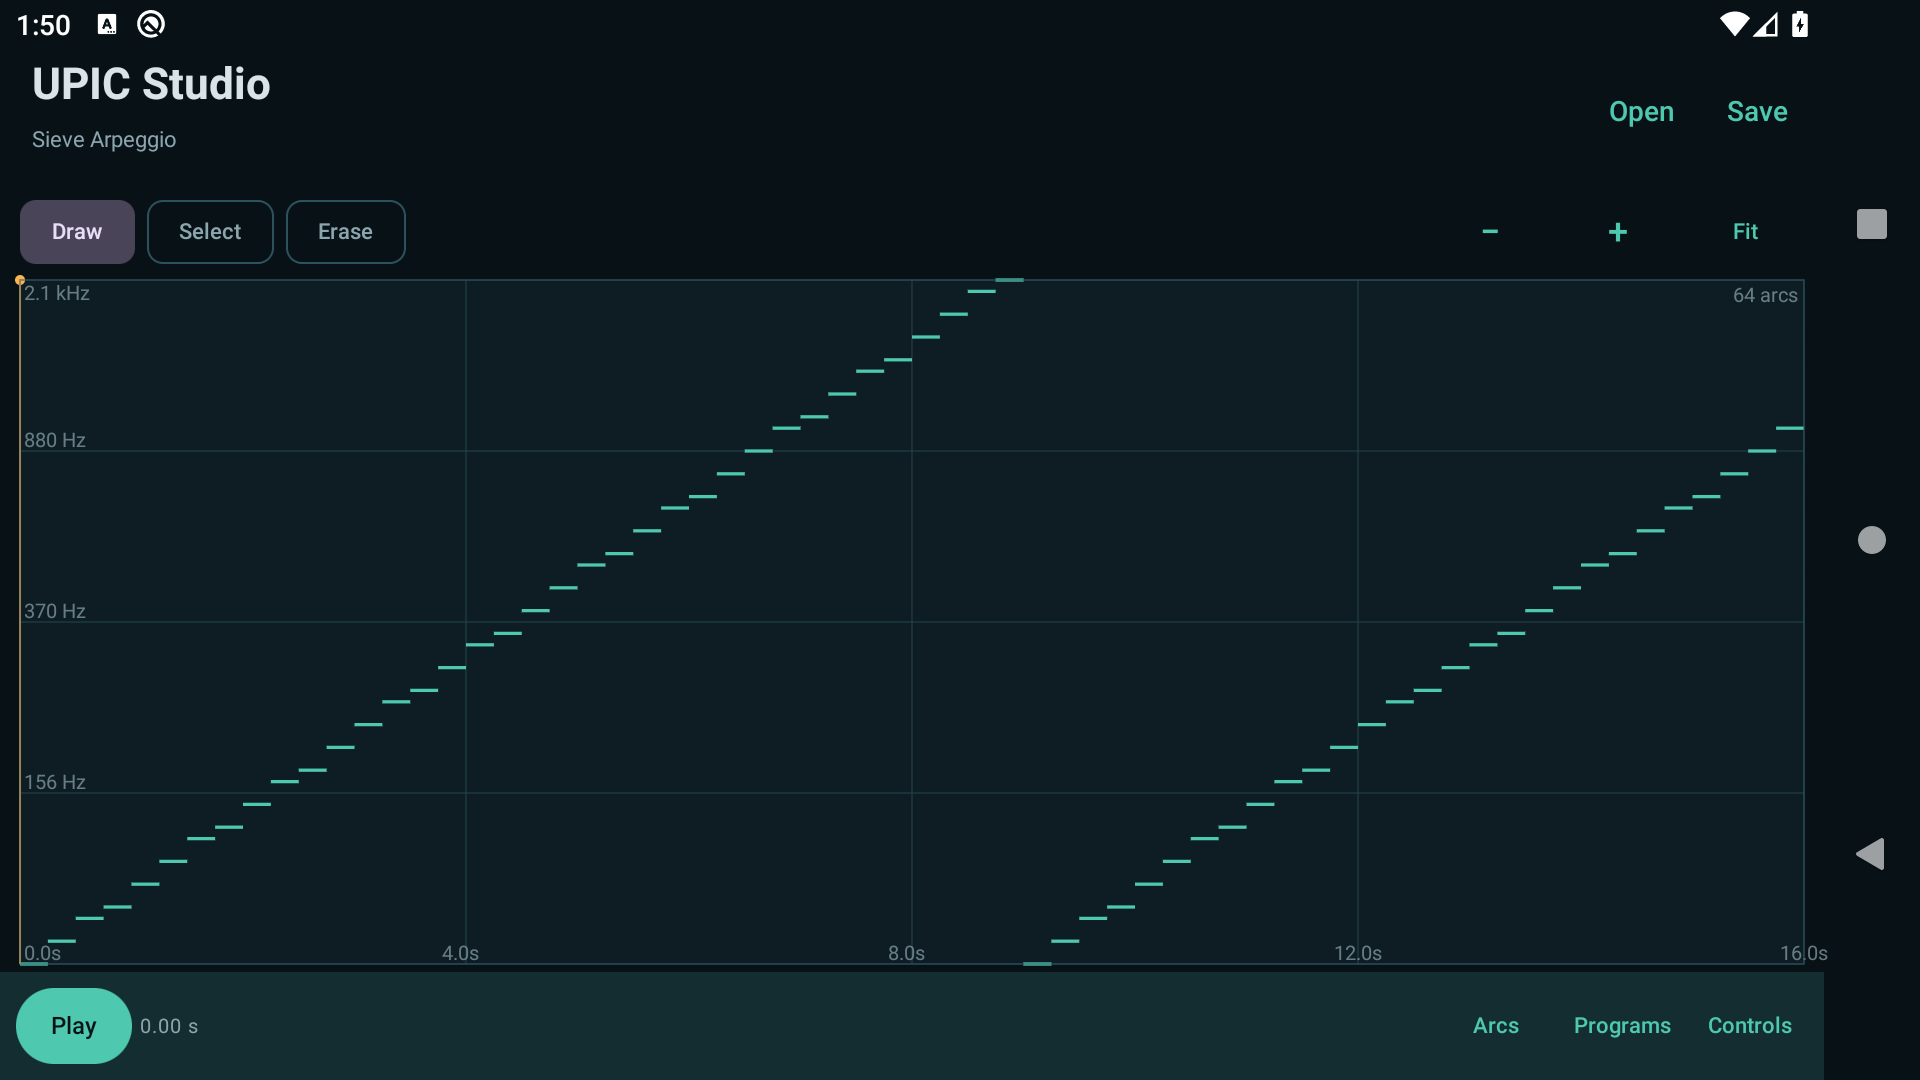
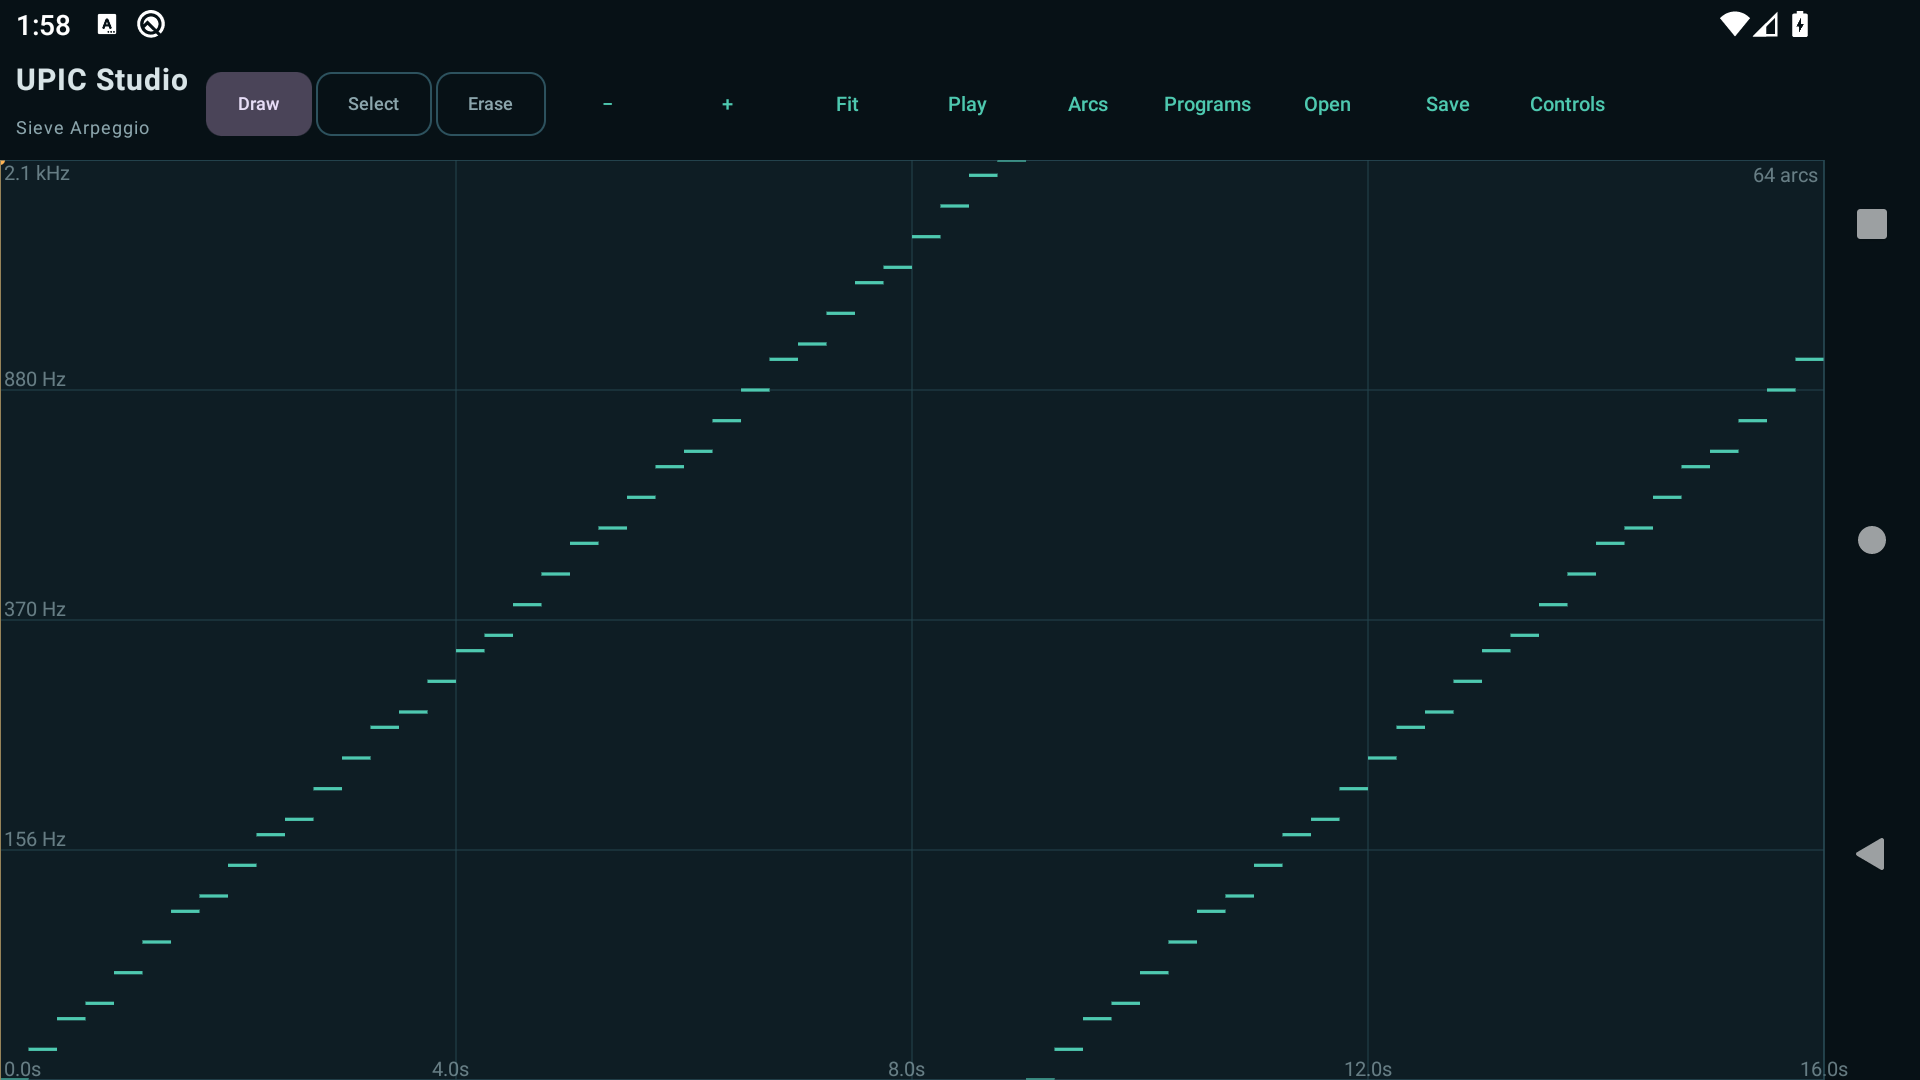
feat(android): move all controls onto one top line
- Remove the separate canvas toolbar and bottom quick bar
- Put tools, zoom, play, arcs, programs, open/save, and controls beside the title
- Keep the landscape side panel for deeper editing and expand the drawing area
- Refresh Play screenshots for the single-line toolbar layout

diff --git a/android/app/src/main/java/gr/tkleisas/upicstudio/UpicApp.kt b/android/app/src/main/java/gr/tkleisas/upicstudio/UpicApp.kt
@@ -27,11 +27,13 @@ import androidx.compose.foundation.layout.Row
 import androidx.compose.foundation.layout.PaddingValues
 import androidx.compose.foundation.layout.Spacer
 import androidx.compose.foundation.layout.WindowInsets
+import androidx.compose.foundation.layout.windowInsetsPadding
 import androidx.compose.foundation.layout.fillMaxSize
 import androidx.compose.foundation.layout.fillMaxWidth
 import androidx.compose.foundation.layout.height
 import androidx.compose.foundation.layout.padding
 import androidx.compose.foundation.layout.safeDrawing
+import androidx.compose.foundation.layout.statusBars
 import androidx.compose.foundation.layout.size
 import androidx.compose.foundation.layout.width
 import androidx.compose.foundation.lazy.LazyColumn
@@ -616,34 +618,23 @@ fun UpicApp() {
         containerColor = Background,
         contentWindowInsets = WindowInsets.safeDrawing,
         topBar = {
-            TopAppBar(
-                title = {
-                    Column {
-                        Text("UPIC Studio", fontWeight = FontWeight.Bold)
-                        Text(
-                            state.page.name,
-                            fontSize = 11.sp,
-                            color = TextDim,
-                        )
-                    }
+            UpicToolbar(
+                state = state,
+                controlsOpen = controlsOpen,
+                onOpen = {
+                    openLauncher.launch(
+                        arrayOf("application/x-xenpage", "text/plain",
+                            "application/octet-stream"),
+                    )
                 },
-                colors = TopAppBarDefaults.topAppBarColors(
-                    containerColor = Background,
-                    titleContentColor = Color(0xFFD8E4E7),
-                ),
-                actions = {
-                    TextButton(onClick = {
-                        openLauncher.launch(
-                            arrayOf("application/x-xenpage", "text/plain",
-                                "application/octet-stream"),
-                        )
-                    }) { Text("Open") }
-                    TextButton(onClick = {
-                        saveLauncher.launch(
-                            "${state.page.name.ifBlank { "upic" }}.xenpage",
-                        )
-                    }) { Text("Save") }
+                onSave = {
+                    saveLauncher.launch(
+                        "${state.page.name.ifBlank { "upic" }}.xenpage",
+                    )
                 },
+                onPrograms = { showPrograms = true },
+                onArcs = { showArcs = true },
+                onControls = { controlsOpen = !controlsOpen },
             )
         },
     ) { padding ->
@@ -653,23 +644,10 @@ fun UpicApp() {
                 .padding(padding),
         ) {
             val wide = maxWidth > maxHeight
-            val quickBarHeight = 54.dp
             ScoreCanvas(
                 state = state,
-                modifier = Modifier
-                    .fillMaxSize()
-                    .padding(bottom = if (controlsOpen) 0.dp
-                    else quickBarHeight),
+                modifier = Modifier.fillMaxSize(),
             )
-            if (!controlsOpen) {
-                QuickBar(
-                    state = state,
-                    onPrograms = { showPrograms = true },
-                    onArcs = { showArcs = true },
-                    onControls = { controlsOpen = true },
-                    modifier = Modifier.align(Alignment.BottomCenter),
-                )
-            }
             AnimatedVisibility(
                 visible = controlsOpen,
                 enter = if (wide) {
@@ -729,6 +707,81 @@ fun UpicApp() {
 }
 
 @Composable
+private fun UpicToolbar(
+    state: UpicState,
+    controlsOpen: Boolean,
+    onOpen: () -> Unit,
+    onSave: () -> Unit,
+    onPrograms: () -> Unit,
+    onArcs: () -> Unit,
+    onControls: () -> Unit,
+) {
+    Surface(color = Background) {
+        Row(
+            modifier = Modifier
+                .fillMaxWidth()
+                .windowInsetsPadding(WindowInsets.statusBars)
+                .padding(horizontal = 8.dp, vertical = 4.dp),
+            verticalAlignment = Alignment.CenterVertically,
+        ) {
+            Column(modifier = Modifier.padding(end = 8.dp)) {
+                Text(
+                    "UPIC Studio",
+                    fontWeight = FontWeight.Bold,
+                    fontSize = 15.sp,
+                    maxLines = 1,
+                )
+                Text(
+                    state.page.name,
+                    fontSize = 9.sp,
+                    color = TextDim,
+                    maxLines = 1,
+                )
+            }
+            Row(
+                modifier = Modifier
+                    .weight(1f)
+                    .horizontalScroll(rememberScrollState()),
+                verticalAlignment = Alignment.CenterVertically,
+                horizontalArrangement = Arrangement.spacedBy(2.dp),
+            ) {
+                UpicTool.entries.forEach { tool ->
+                    FilterChip(
+                        selected = state.tool == tool,
+                        onClick = { state.tool = tool },
+                        label = { Text(tool.label, fontSize = 9.sp) },
+                    )
+                }
+                ToolbarButton("−") { state.zoomView(1f / 1.35f) }
+                ToolbarButton("+") { state.zoomView(1.35f) }
+                ToolbarButton("Fit") { state.fitView() }
+                ToolbarButton(if (state.playing) "Stop" else "Play") {
+                    state.togglePlay()
+                }
+                ToolbarButton("Arcs") { onArcs() }
+                ToolbarButton("Programs") { onPrograms() }
+                ToolbarButton("Open") { onOpen() }
+                ToolbarButton("Save") { onSave() }
+                ToolbarButton(if (controlsOpen) "Hide" else "Controls") {
+                    onControls()
+                }
+            }
+        }
+    }
+}
+
+@Composable
+private fun ToolbarButton(label: String, onClick: () -> Unit) {
+    TextButton(
+        onClick = onClick,
+        contentPadding = PaddingValues(horizontal = 6.dp),
+        modifier = Modifier.height(30.dp),
+    ) {
+        Text(label, fontSize = 10.sp, maxLines = 1)
+    }
+}
+
+@Composable
 private fun ScoreCanvas(state: UpicState, modifier: Modifier = Modifier) {
     val density = LocalDensity.current
     val labelPaint = remember {
@@ -740,46 +793,10 @@ private fun ScoreCanvas(state: UpicState, modifier: Modifier = Modifier) {
     val labelSize = with(density) { 10.sp.toPx() }
     val duration = max(0.1, state.page.duration)
 
-    Column(
+    Canvas(
         modifier = modifier
-            .background(Background)
-            .padding(horizontal = 10.dp, vertical = 4.dp),
-    ) {
-        Row(
-            modifier = Modifier.fillMaxWidth(),
-            verticalAlignment = Alignment.CenterVertically,
-            horizontalArrangement = Arrangement.spacedBy(6.dp),
-        ) {
-            UpicTool.entries.forEach { tool ->
-                FilterChip(
-                    selected = state.tool == tool,
-                    onClick = { state.tool = tool },
-                    label = { Text(tool.label, fontSize = 11.sp) },
-                )
-            }
-            Spacer(Modifier.weight(1f))
-            TextButton(
-                onClick = { state.zoomView(1f / 1.35f) },
-                contentPadding = PaddingValues(horizontal = 6.dp),
-                modifier = Modifier.height(32.dp),
-            ) { Text("−", fontSize = 18.sp) }
-            TextButton(
-                onClick = { state.zoomView(1.35f) },
-                contentPadding = PaddingValues(horizontal = 6.dp),
-                modifier = Modifier.height(32.dp),
-            ) { Text("+", fontSize = 18.sp) }
-            TextButton(
-                onClick = { state.fitView() },
-                contentPadding = PaddingValues(horizontal = 6.dp),
-                modifier = Modifier.height(32.dp),
-            ) { Text("Fit", fontSize = 11.sp) }
-        }
-
-        Canvas(
-            modifier = Modifier
-                .fillMaxSize()
-                .background(Panel)
-                .pointerInput(state.tool, state.revision) {
+            .background(Panel)
+            .pointerInput(state.tool, state.revision) {
                     val width = size.width.toFloat().coerceAtLeast(1f)
                     val height = size.height.toFloat().coerceAtLeast(1f)
                     val touchSlop = viewConfiguration.touchSlop
@@ -963,7 +980,6 @@ private fun ScoreCanvas(state: UpicState, modifier: Modifier = Modifier) {
                 Color(0xFF2D525E),
                 style = Stroke(width = 1f),
             )
-        }
     }
 }
 
@@ -1064,61 +1080,6 @@ private fun ControlsPanel(
             fontSize = 10.sp,
             modifier = Modifier.padding(vertical = 6.dp),
         )
-    }
-}
-
-@Composable
-private fun QuickBar(
-    state: UpicState,
-    onPrograms: () -> Unit,
-    onArcs: () -> Unit,
-    onControls: () -> Unit,
-    modifier: Modifier = Modifier,
-) {
-    Surface(
-        color = Panel,
-        tonalElevation = 4.dp,
-        modifier = modifier
-            .fillMaxWidth()
-            .height(54.dp),
-    ) {
-        Row(
-            modifier = Modifier
-                .fillMaxSize()
-                .padding(horizontal = 8.dp),
-            verticalAlignment = Alignment.CenterVertically,
-            horizontalArrangement = Arrangement.spacedBy(4.dp),
-        ) {
-            Button(
-                onClick = { state.togglePlay() },
-                colors = ButtonDefaults.buttonColors(
-                    containerColor = if (state.playing) Amber else Accent,
-                    contentColor = Background,
-                ),
-                contentPadding = PaddingValues(horizontal = 14.dp),
-                modifier = Modifier.height(38.dp),
-            ) {
-                Text(if (state.playing) "Stop" else "Play", fontSize = 12.sp)
-            }
-            Text(
-                String.format(Locale.US, "%.2f s", state.playhead),
-                color = TextDim,
-                fontSize = 10.sp,
-            )
-            Spacer(Modifier.weight(1f))
-            TextButton(
-                onClick = onArcs,
-                contentPadding = PaddingValues(horizontal = 6.dp),
-            ) { Text("Arcs", fontSize = 11.sp) }
-            TextButton(
-                onClick = onPrograms,
-                contentPadding = PaddingValues(horizontal = 6.dp),
-            ) { Text("Programs", fontSize = 11.sp) }
-            TextButton(
-                onClick = onControls,
-                contentPadding = PaddingValues(horizontal = 6.dp),
-            ) { Text("Controls", fontSize = 11.sp) }
-        }
     }
 }
 

diff --git a/android/README.md b/android/README.md
@@ -6,8 +6,10 @@ the UI is Kotlin + Jetpack Compose.
 
 ![UPIC Studio for Android](docs/screenshot.png)
 
-UPIC Studio is landscape-only. The score fills the screen; the control panel
-slides in from the right over the score and can be hidden at any time.
+UPIC Studio is landscape-only. All score tools, transport, zoom, programs, and
+file actions share a single compact top line beside the title. The score fills
+the rest of the screen; the control panel slides in from the right over it and
+can be hidden at any time.
 
 ## Features
 
@@ -18,7 +20,8 @@ slides in from the right over the score and can be hidden at any time.
 - Edit arc weight, waveform, group, and mute state.
 - Load eight built-in UPIC programs, save edited programs to app storage, and
   keep the current page automatically between launches.
-- Landscape-first workspace with a collapsible side control panel.
+- Landscape-only workspace with all quick actions on one top line and a
+  collapsible side control panel.
 - Loop playback with adjustable speed and master gain.
 - Live GENDYN note strip (C3–C4) for auditioning stochastic voices.
 - GENDYN controls: segments, distribution, amplitude step/barrier, mirror.

diff --git a/android/store/play-console.md b/android/store/play-console.md
@@ -22,8 +22,8 @@ Use the Fastlane metadata in `../fastlane/metadata/android/en-US/`.
 - **App icon:** 512×512 `images/icon.png`
 - **Feature graphic:** 1024×500 `images/featureGraphic.png`
 - **Phone screenshots:** two 1920×1080 landscape captures in
-  `images/phoneScreenshots/` showing the full-screen canvas and the side
-  generator panel.
+  `images/phoneScreenshots/` showing the single-line toolbar with full-screen
+  canvas and the collapsible side control panel.
 
 ## App content
 
